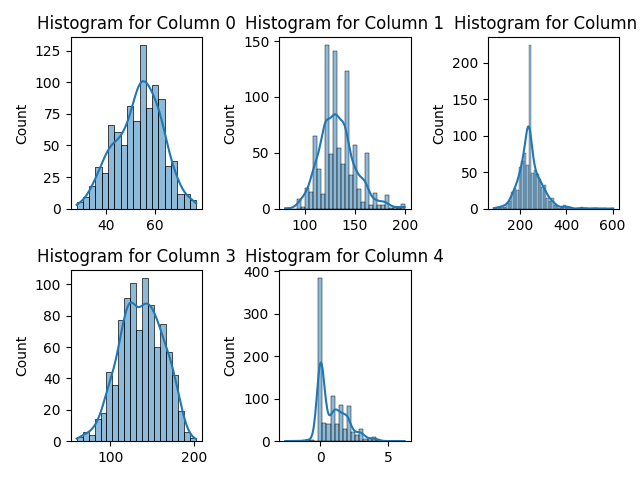
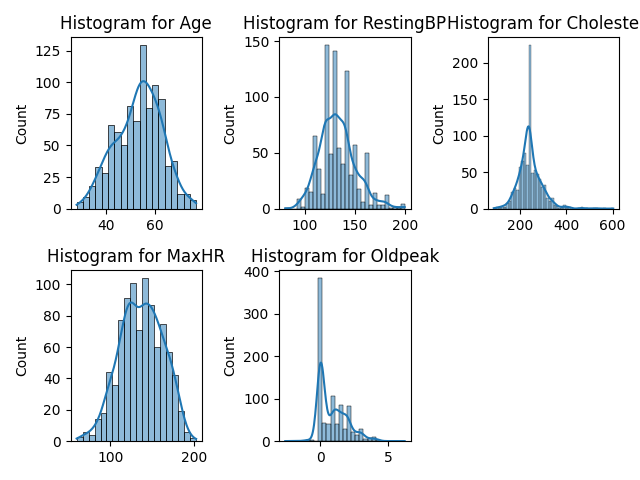
small change

Changed region(s): [[0.0625, 0.5, 0.6875, 0.5625], [0.0625, 0.0312, 1.0, 0.0625]]

diff --git a/Project/heart_project.py b/Project/heart_project.py
@@ -182,7 +182,7 @@ for i in range(0, X_cont.shape[1]):
     column = X_cont[:, i]
     plt.subplot(2, 3, j)
     sns.histplot(column, kde=True)
-    plt.title(f'Histogram for Column {i}')
+    plt.title(f'Histogram for {attributeNames_cont[i]}')
     j += 1
 
 plt.tight_layout()
